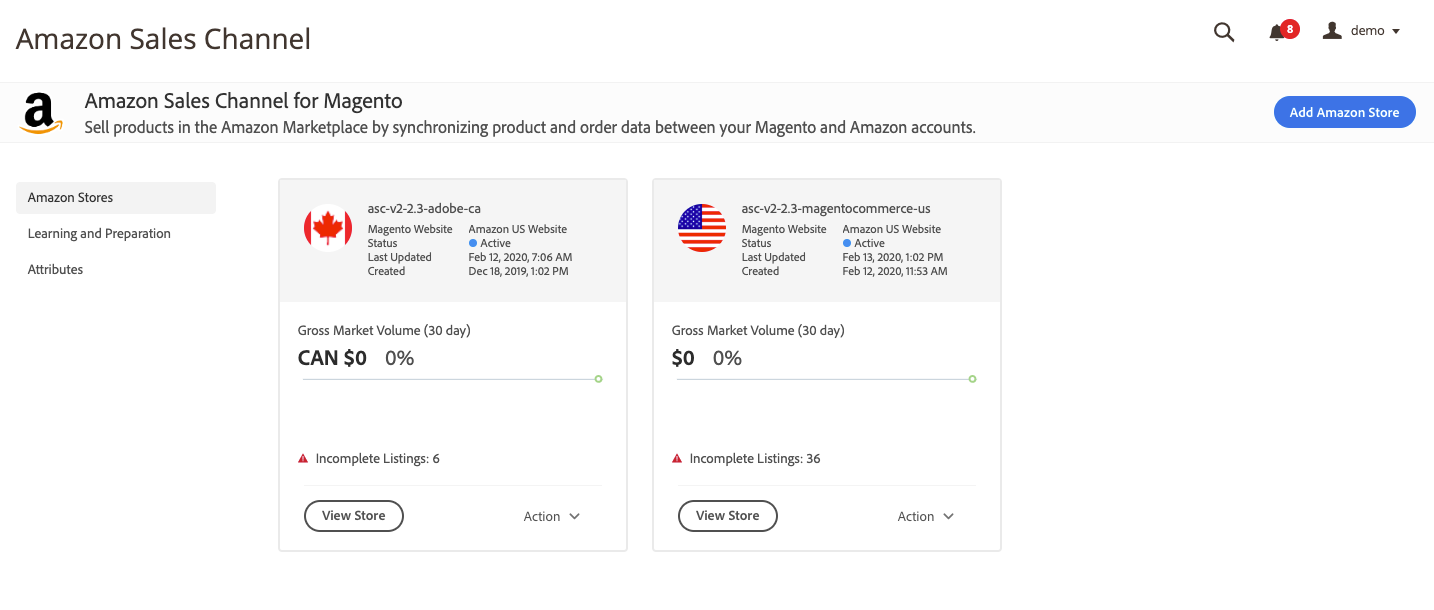
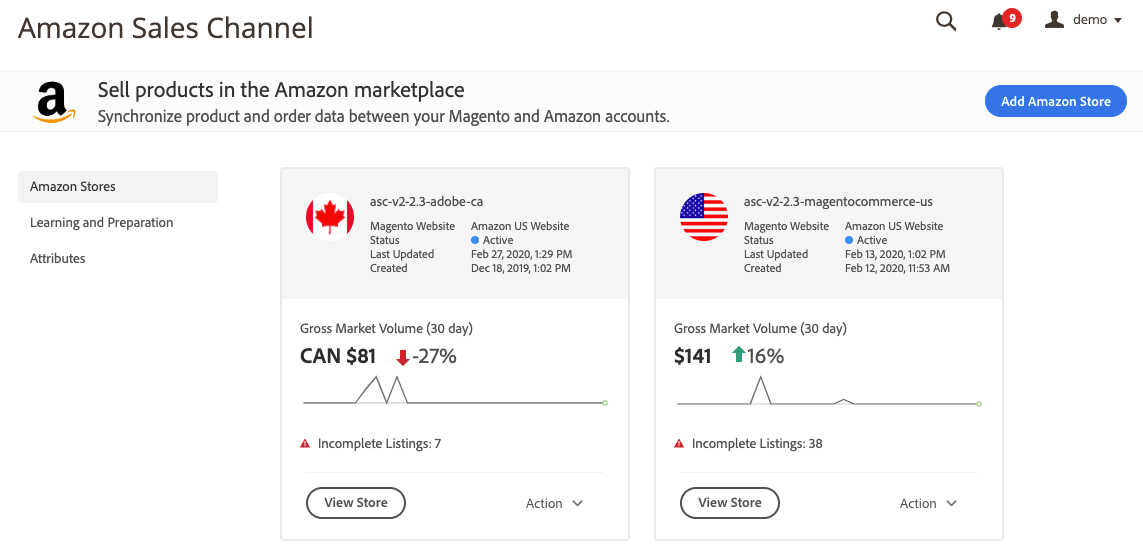
asc home and store dashboard changes
not done yet

diff --git a/src/sales-channels/asc/managing-stores.md b/src/sales-channels/asc/managing-stores.md
@@ -1,41 +1,34 @@
 ---
-title: Managing Stores
+title: Amazon Stores View
 ---
 
 
-In the _Admin_ sidebar, go to **Marketing** >  _Channels_ > **Amazon**. When accessing your Amazon Sales Channel, the _Amazon Stores_ tab opens by default on the Amazon Sales Channel home page.
+In the _Admin_ sidebar, go to **Marketing** >  _Channels_ > **Amazon**. When accessing your Amazon Sales Channel, the _Amazon Stores_ view opens by default on the Amazon Sales Channel home page.
 
-The _Amazon Stores_ tab provides a list of your Amazon stores along with some basic statistics and management options. Displayed statistics include each store's status, date created, last updated, available management actions, and defined region. Management options (available under **Select** in the _Actions_ column) include:
+![]({% link sales-channels/asc/assets/amazon-sales-channel-home-tabs.png %}){: .zoom}
+_Amazon Sales Channel home page - Amazon Stores view_
 
-- **Manage Store** - The action for this option is dependent on the status of the store selected.
+The _Amazon Stores_ view shows a "store card" for each of your Amazon stores along with some basic statistics and management options. Summary information shown in each card include each store's status, date created, last updated date, listings that need attention (example: Incomplete Listings) and the assigned Magento website. When viewing the _Amazon Store_ view, you can:
 
-    If the store is in `Active` or `Inactive` status, this shows the [store's dashboard]({% link sales-channels/asc/amazon-store-dashboard.md %}) giving you access to the store's data, revenue and order information, and listing and order settings.
-    
-    If the store is in `Setup` status, this shows the [Store Review]({% link sales-channels/asc/ob-store-review.md %}) step for the store's setup process, where you can review and modify your stores settings, listing and order settings, and pricing rules before completing setup.
+- Click **View Store** to open a store's [dashboard]({% link sales-channels/asc/amazon-store-dashboard.md %}).
 
-- **Change to Active/Inactive** - Choose when you want to change the status of the store selected. This feature allows you to control order and listing activity at the Amazon regional level, because each Amazon store has a defined region during setup.
+- Click **Action** to change a store's status or delete a store.
 
-    Changing an Inactive store to Active status will activate listings and order activity for the store, using the stores current setup (listing settings, price rules, overrides, etc.)
-    
-    Changing a store's status from `Active` to `Inactive` will suspend listings and order activity for the store. An Inactive store will retain all settings and listings, but will temporarily stop the synchronization of pricing, quantity, and order management until the store is changed to `Active` status. This feature allows you to control your store activity at the Regional level without the need to recreate or reintegrate your Amazon store or the loss of historical order and sales data.
+    - **Activate** / **Deactivate** - Allows you to change a store's status.
 
-- **Delete Store** - Choose when you wish to delete an existing Amazon store and its integration settings with your Amazon Seller Central account. Deleting the account will remove the store from Amazon Sales Channel, along with all account settings, listings, logs and other information related to this store. The account cannot be retrieved after deletion.
+       Changing an `Inactive` store to `Active` status will activate listings and order activity for the store, using the stores current store settings (listing settings, price rules, overrides, etc.)
+
+       Changing a store's status from `Active` to `Inactive` status will suspend listings and order activity for the store. An Inactive store will retain all store settings and listings, but will temporarily stop the synchronization of pricing, quantity, and order management until the store is changed back to `Active` status. This feature allows you to control your store activity at the Regional level without the need to recreate or reintegrate your Amazon store or the loss of historical order and sales data.
+
+    - **Delete** - Allows you to delete a store that is no longer needed.
+
+       Choose when you wish to delete an existing Amazon store and its integration settings with your Amazon Seller Central account. Deleting the account will remove the store from Amazon Sales Channel, along with all account settings, listings, logs and other information related to this store. The account cannot be retrieved after deletion.
 
 {:.bs-callout-info}
-To change the website assigned to the store during integration, you must delete the store and add the store again with the different website through the onboarding process.
+To change the website assigned to the store during integration, you must delete the store and add the store again with the different website defined during store integration.
 
-You will notice some [workspace controls]({% link sales-channels/asc/workspace-controls.md %}) that are common throughout the Amazon Sales Channel.
-
-One workspace control unique to the Amazon Stores tab is the <span class="btn">Setup Amazon Store</span> button. When you want to set up a new Amazon store, click this button and begin the [onboarding]({% link sales-channels/asc/amazon-onboarding-home.md %}) for the new store.
-
-![]({% link sales-channels/asc/assets/amazon-managing-stores.png %}){: .zoom}
-_Amazon Stores_
-
-|Column|Description|
+|Store Card|Description|
 |--- |--- |
-|Amazon Store Name|The name defined for each store during its [store integration]({% link sales-channels/asc/store-integration.md %}).|
-|Region|The region (defined during [store integration]({% link sales-channels/asc/store-integration.md %})) in which your Amazon store sells. Example: United States, Canada, United Kingdom.|
-|Status|The status of your store. Options:<br/>**In Setup** - Store setup is incomplete and not available for sales activity. Accessing or managing the store opens in Onboarding steps. <br/>**Active** - Store setup is complete and verified with Amazon and is available for sales activity. To review revenue and update settings, see [Store Dashboard]({% link sales-channels/asc/amazon-store-dashboard.md %}).<br/>**Inactive** - Store setup is complete, but is not in use or available for sales activity. You may want to set to inactive to pause sales on Amazon. If active, sales revenue and additional settings save to update prior to activating. To review revenue and update settings, see [Store Dashboard]({% link sales-channels/asc/amazon-store-dashboard.md %}).|
-|Created On|The date the Amazon store was created in Amazon Sales Channel.|
-|Last Updated|The date of the most recent change to the Amazon store's setup.|
-|Actions|Lists available actions that can be applied to the store listed. Click **Select** and choose an option. Options:<br/>[Manage Store]({% link sales-channels/asc/managing-stores.md %})<br/>[Change To Active/Inactive]({% link sales-channels/asc/managing-stores.md %})<br/>[Delete Store]({% link sales-channels/asc/managing-stores.md %})
+|Top section|Includes: <br/>The region icon for the store, defined during store integration.<br/> The assigned **Magento Website**, defined during store integration.<br/>The **Status** of your store. Options:<br/>**Active** - Store integration is complete and verified with Amazon and is available for sales activity.<br/>**Inactive** - Store integration is complete, but is not in use or available for sales activity. When `Inactive`, your Amazon sales are paused. When `Active`, sales revenue and additional settings save to update prior to activating.<br/>The **Last Updated** date of the most recent change to the Amazon store's setup.<br/>The **Created** date when the Amazon store was created in Amazon Sales Channel.|
+|Middle Section|Includes a store activity summary chart for the last 30 days and includes and alert for any listings that need attention.|
+|Bottom section|Includes the View Store and Action options.<br/>Click **View Store** to open the store's [dashboard]({% link sales-channels/asc/amazon-store-dashboard.md %}).<br/> Click **Actions** to Activate, Deactivate, or Delete a store.|

diff --git a/src/sales-channels/asc/amazon-sales-channel-home.md b/src/sales-channels/asc/amazon-sales-channel-home.md
@@ -8,9 +8,9 @@ The Amazon Sales Channel home page is your landing page when accessing your Amaz
 ![]({% link sales-channels/asc/assets/amazon-sales-channel-home-tabs.png %}){: .zoom}
 _Amazon Sales Channel home page_
 
-Options available in the left-side menu include:
+View options available in the left-side menu include:
 
-- [Amazon Stores]({% link sales-channels/asc/managing-stores.md %}) - View summary information for your Amazon Sales Channel stores. Click <span class="btn">View Store</span> to view the store's [dashboard]({% link sales-channels/asc/amazon-store-dashboard.md %}).
+- [Amazon Stores]({% link sales-channels/asc/managing-stores.md %}) - (Default view) View summary information for each of your Amazon Sales Channel stores. Click <span class="btn">View Store</span> to view the store's [dashboard]({% link sales-channels/asc/amazon-store-dashboard.md %}).
 - Learning and Preparation - Review your Amazon and Magento recommended setup tasks and available learning materials.
 - [Attributes]({% link sales-channels/asc/managing-attributes.md %}) - View and manage linked Magento and Amazon attributes for your product catalog. Directly edit or create and link attributes directly through Magento to sync automatically with Amazon.
 
@@ -18,4 +18,4 @@ Options available in the left-side menu include:
 
 1. On the _Admin_ sidebar, go to **Marketing** > _Channels_ > **Amazon**.
 
-The Amazon Sales Channel home page opens, defaulted to the _Amazon Stores_ view.
+The Amazon Sales Channel home page opens, defaulted to the [_Amazon Stores_]({% link sales-channels/asc/managing-stores.md %}) view.

diff --git a/src/sales-channels/asc/store-integration-settings.md b/src/sales-channels/asc/store-integration-settings.md
@@ -7,7 +7,7 @@ After integrating your store, review and configure the integration settings stor
 
 ## Modify store integration settings
 
-1. Click a store name in the _Amazon Stores_ tab on the Amazon Sales Channel home page to display the store's dashboard.
+1. Click a store name in the _Amazon Stores_ view on the Amazon Sales Channel home page to display the store's dashboard.
 
 1. On the [store's dashboard]({% link sales-channels/asc/amazon-store-dashboard.md %}), under the _I Want To..._ header, click **Store Integration Settings**.
 

diff --git a/src/sales-channels/asc/managing-listings-by-tab.md b/src/sales-channels/asc/managing-listings-by-tab.md
@@ -25,6 +25,6 @@ title: Managing Product Listings by Tab
 
 1. On the _Admin_ sidebar, click **Marketing** > _Channels_ > **Amazon**.
 
-1. In the _Amazon Stores_ tab, click the store name for which you want to view listings.
+1. In the _Amazon Stores_ view, click the store name for which you want to view listings.
 
 1. On the store [dashboard]({% link sales-channels/asc/amazon-store-dashboard.md %}), under _I Want to See..._, click **Manage Listings**.

diff --git a/src/sales-channels/asc/managing-product-listings.md b/src/sales-channels/asc/managing-product-listings.md
@@ -15,6 +15,6 @@ Product Listing settings are initially defined during onboarding, but can be mod
 
 1. On the _Admin_ sidebar, click **Marketing** > _Channels_ > **Amazon**.
 
-1. In the _Amazon Stores_ tab, click the store name for which you want to view listings.
+1. In the _Amazon Stores_ view, click the store name for which you want to view listings.
 
 1. On the store dashboard, under _I Want to See.._, click **Manage Listings**.
